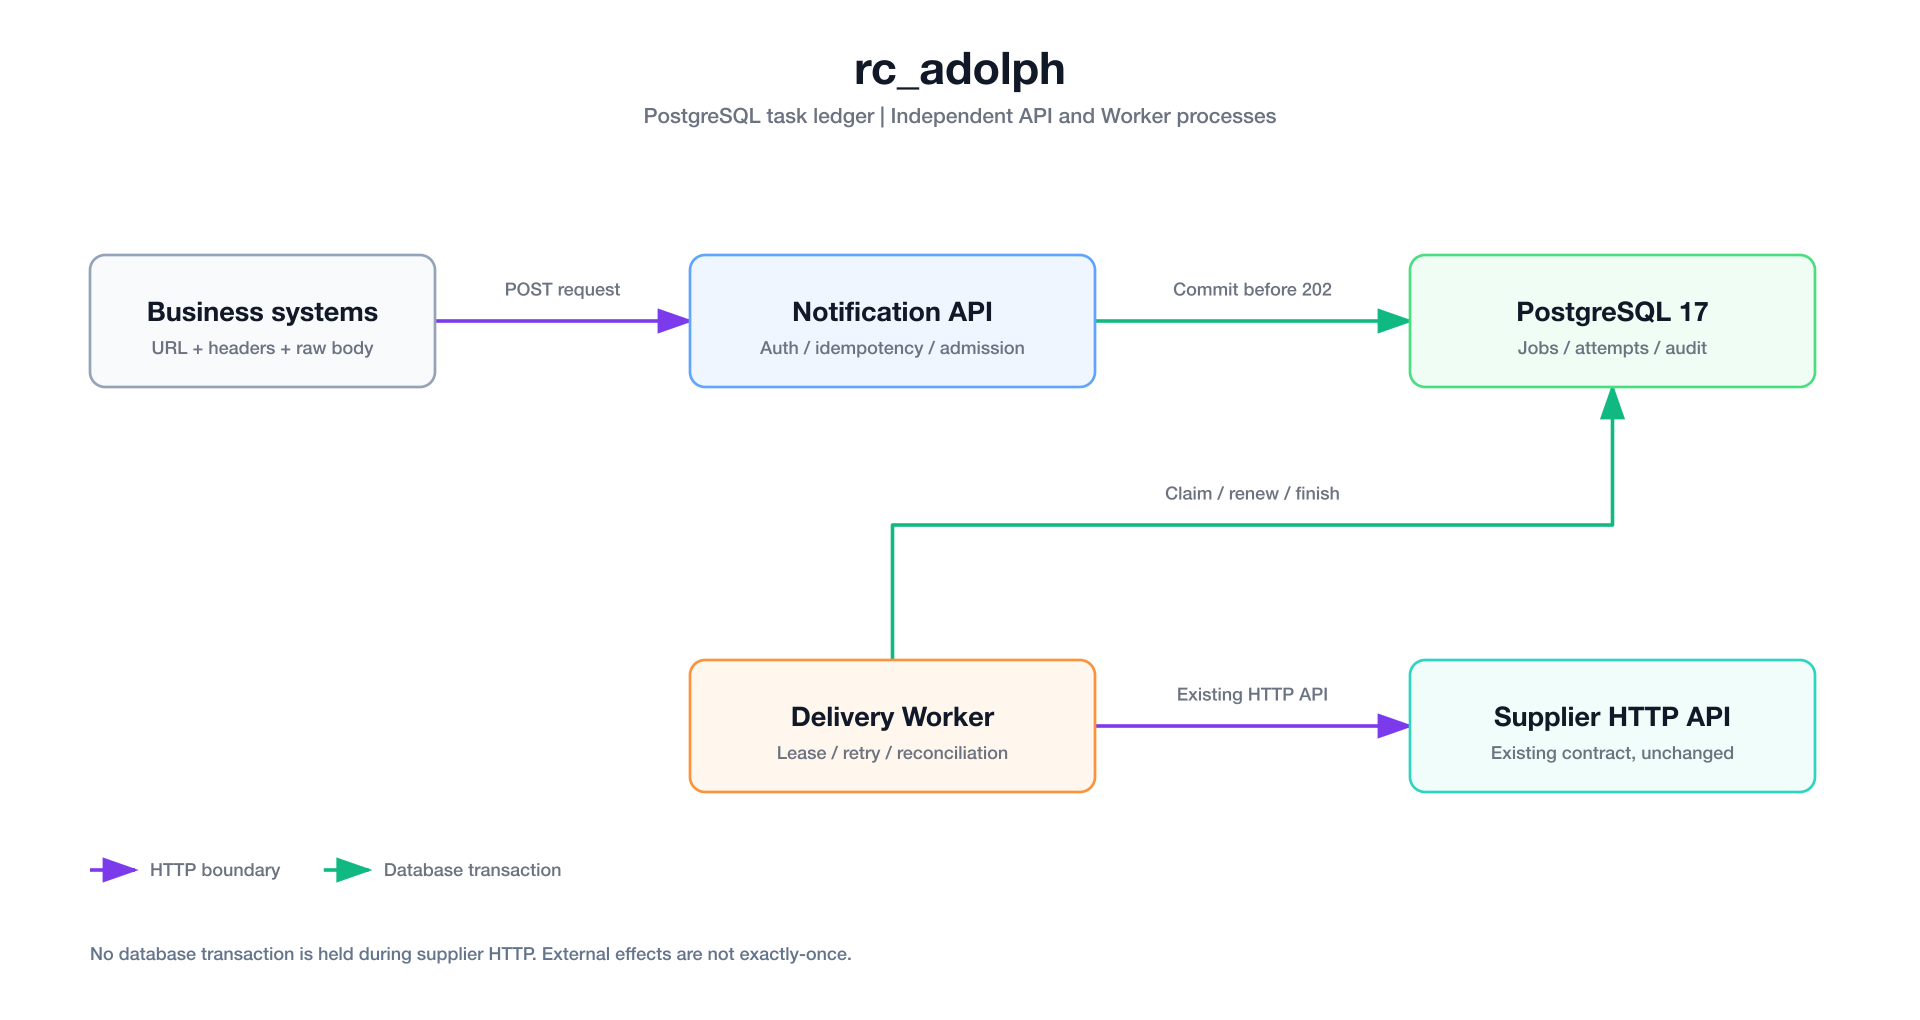
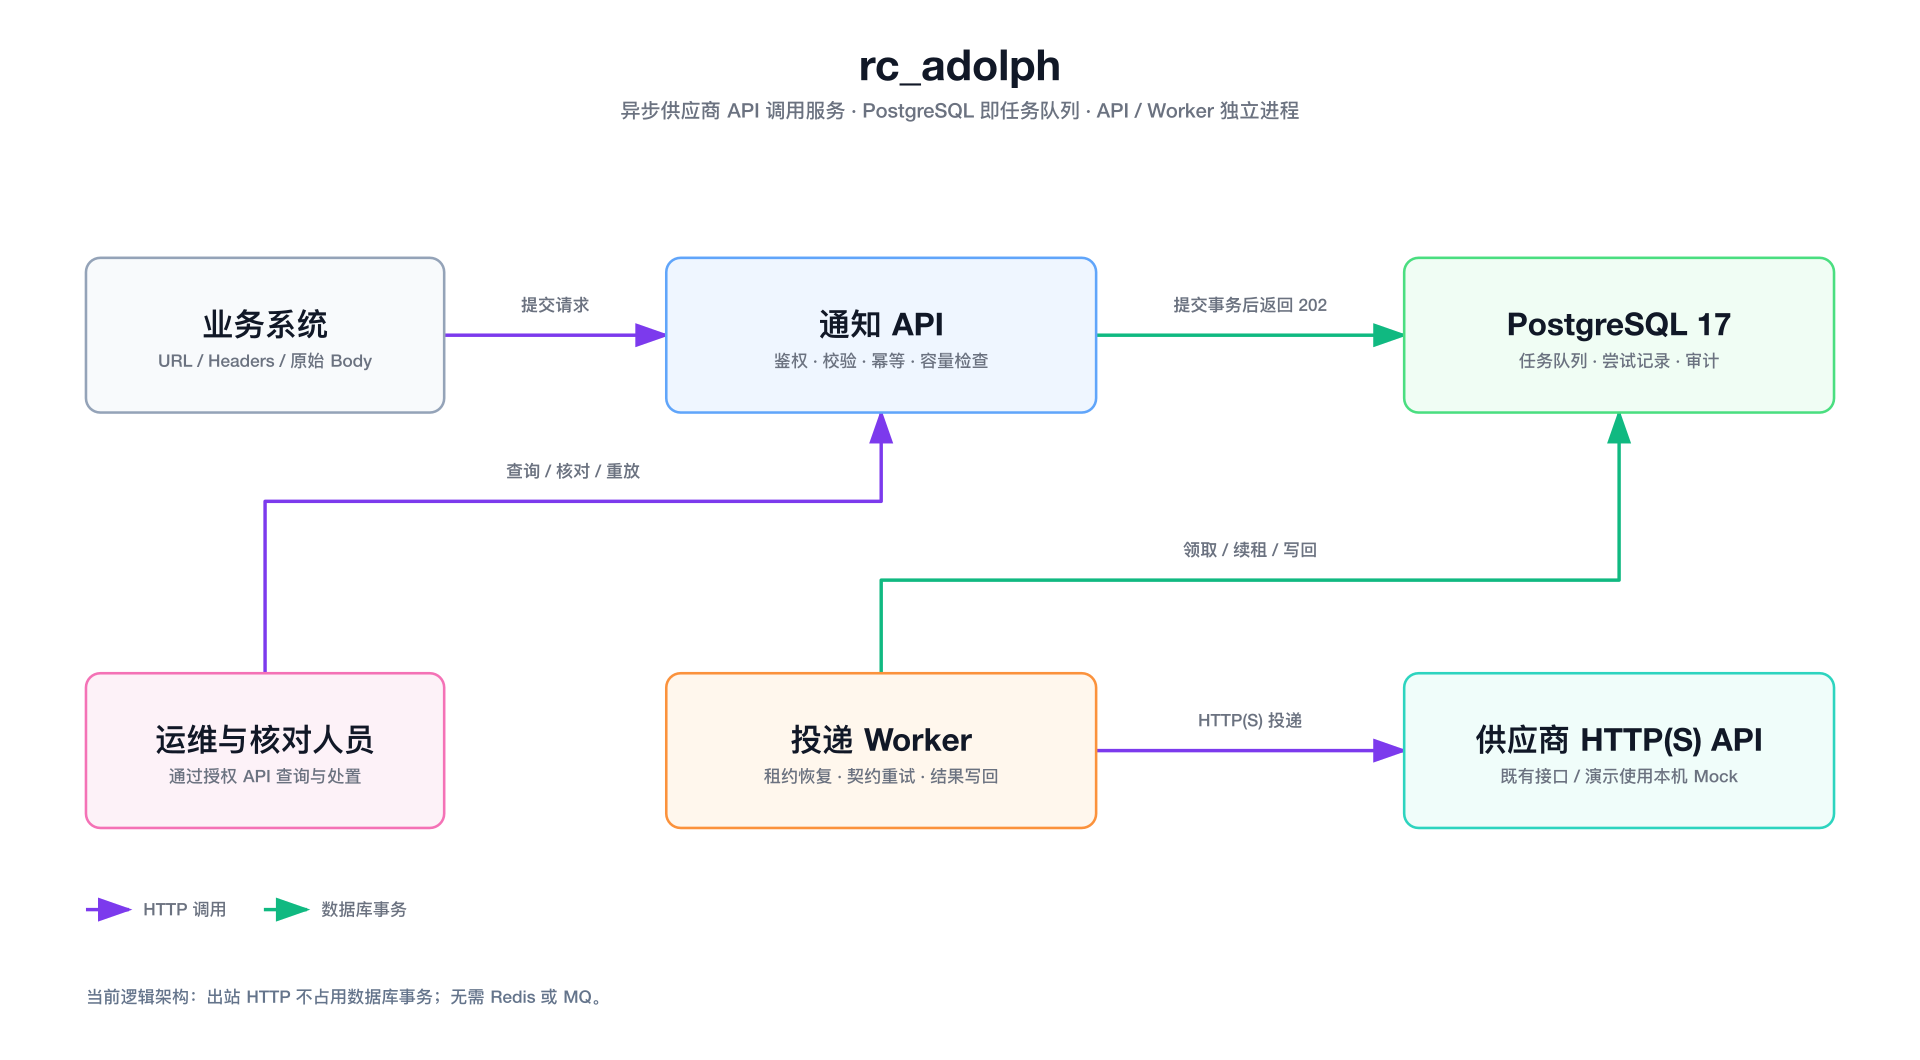
docs: refresh README architecture diagram with Fireworks

diff --git a/docs/assets/README.md b/docs/assets/README.md
@@ -5,6 +5,15 @@
 - `demo-report.json`：本机真实 PostgreSQL、独立 API/Worker 与 Mock 的脱敏执行报告。
 - `demo-results.svg`、`demo-results.png`：根据该报告生成的执行结果可视化，不是应用管理后台截图。
 
+架构图使用 `fireworks-tech-graph` skill 生成。将 `SKILL_ROOT` 指向本机 skill 目录后，在仓库根目录执行：
+
+```sh
+python3 "$SKILL_ROOT/scripts/fireworks.py" validate architecture docs/assets/architecture.json
+python3 "$SKILL_ROOT/scripts/fireworks.py" render architecture docs/assets/architecture.json docs/assets/architecture.svg
+python3 "$SKILL_ROOT/scripts/fireworks.py" check docs/assets/architecture.svg
+python3 "$SKILL_ROOT/scripts/fireworks.py" export-png docs/assets/architecture.svg docs/assets/architecture.png --width 1920
+```
+
 重新运行并生成 SVG，不需要绘图 Python 依赖：
 
 ```sh

diff --git a/README.md b/README.md
@@ -23,11 +23,11 @@ make demo-production PYTHON=.venv/bin/python
 
 无 Docker 时，可运行 `make demo` 体验 [SQLite 演示](docs/sqlite-demo.md)。
 
-## 项目结构
+## 系统架构
 
 API 接收请求，Worker 执行投递，PostgreSQL 保存任务与执行记录，同时承担任务队列。API 与 Worker 分进程运行，不依赖 Redis 或 MQ。
 
-![rc_adolph 架构](docs/assets/architecture.png)
+[![rc_adolph 系统架构：业务系统、API、PostgreSQL 任务队列、Worker 与供应商接口](docs/assets/architecture.png)](docs/assets/architecture.svg)
 
 ## 文档
 
